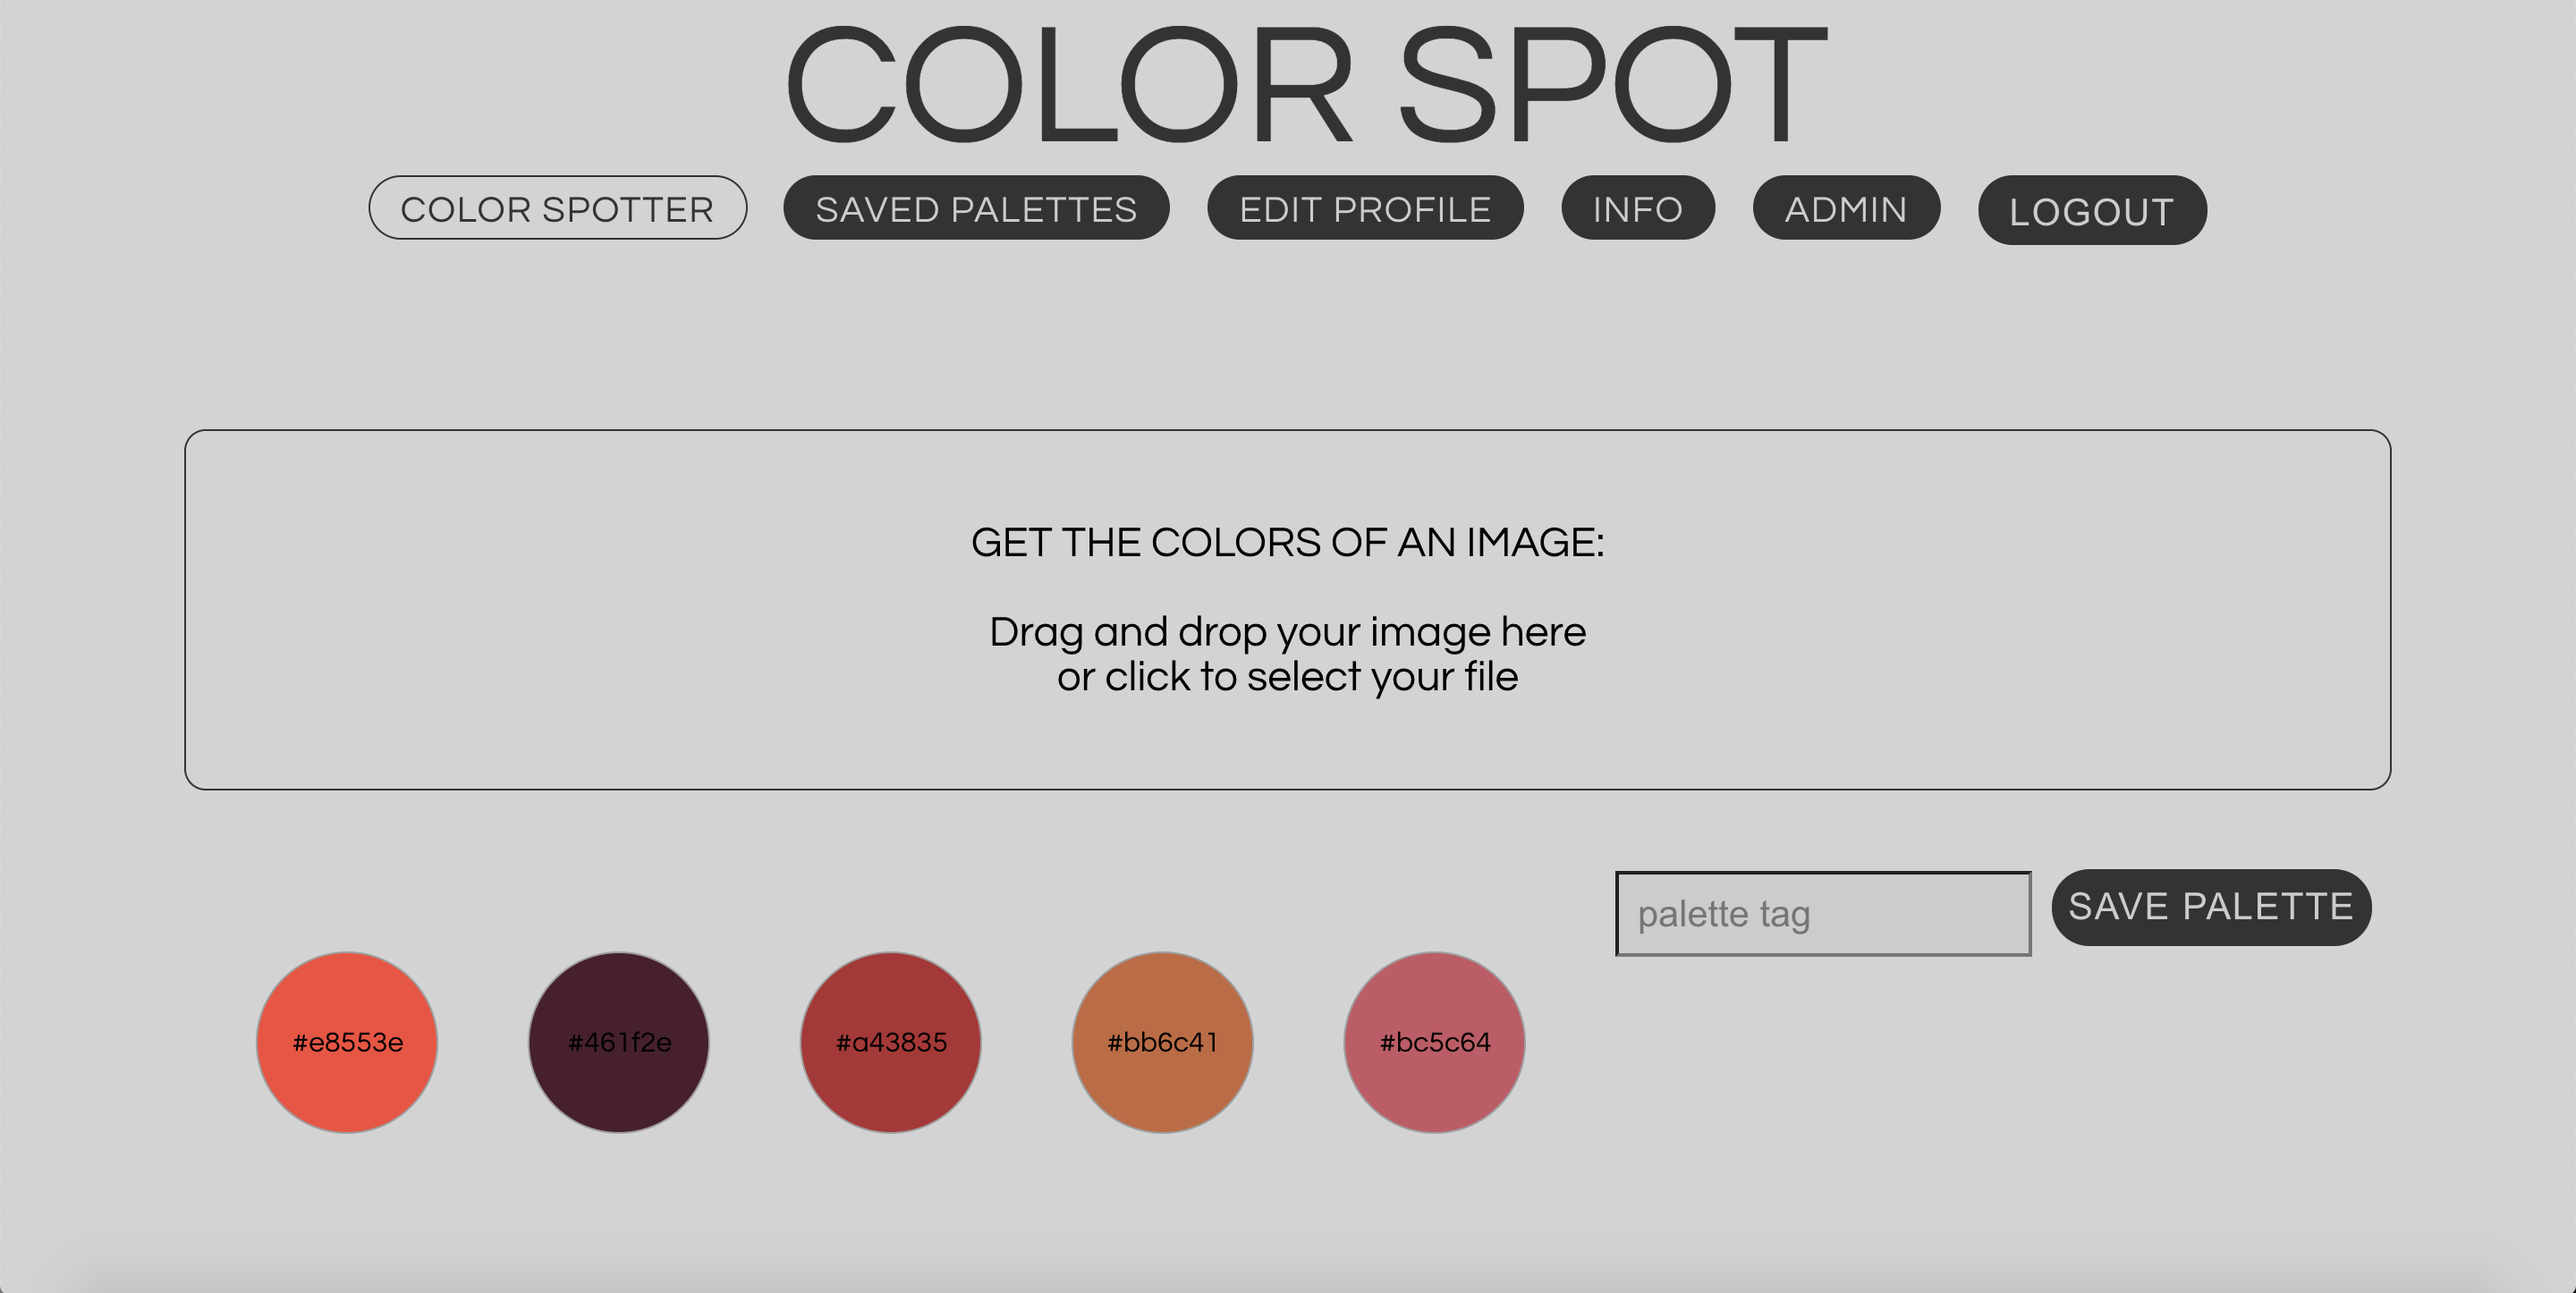
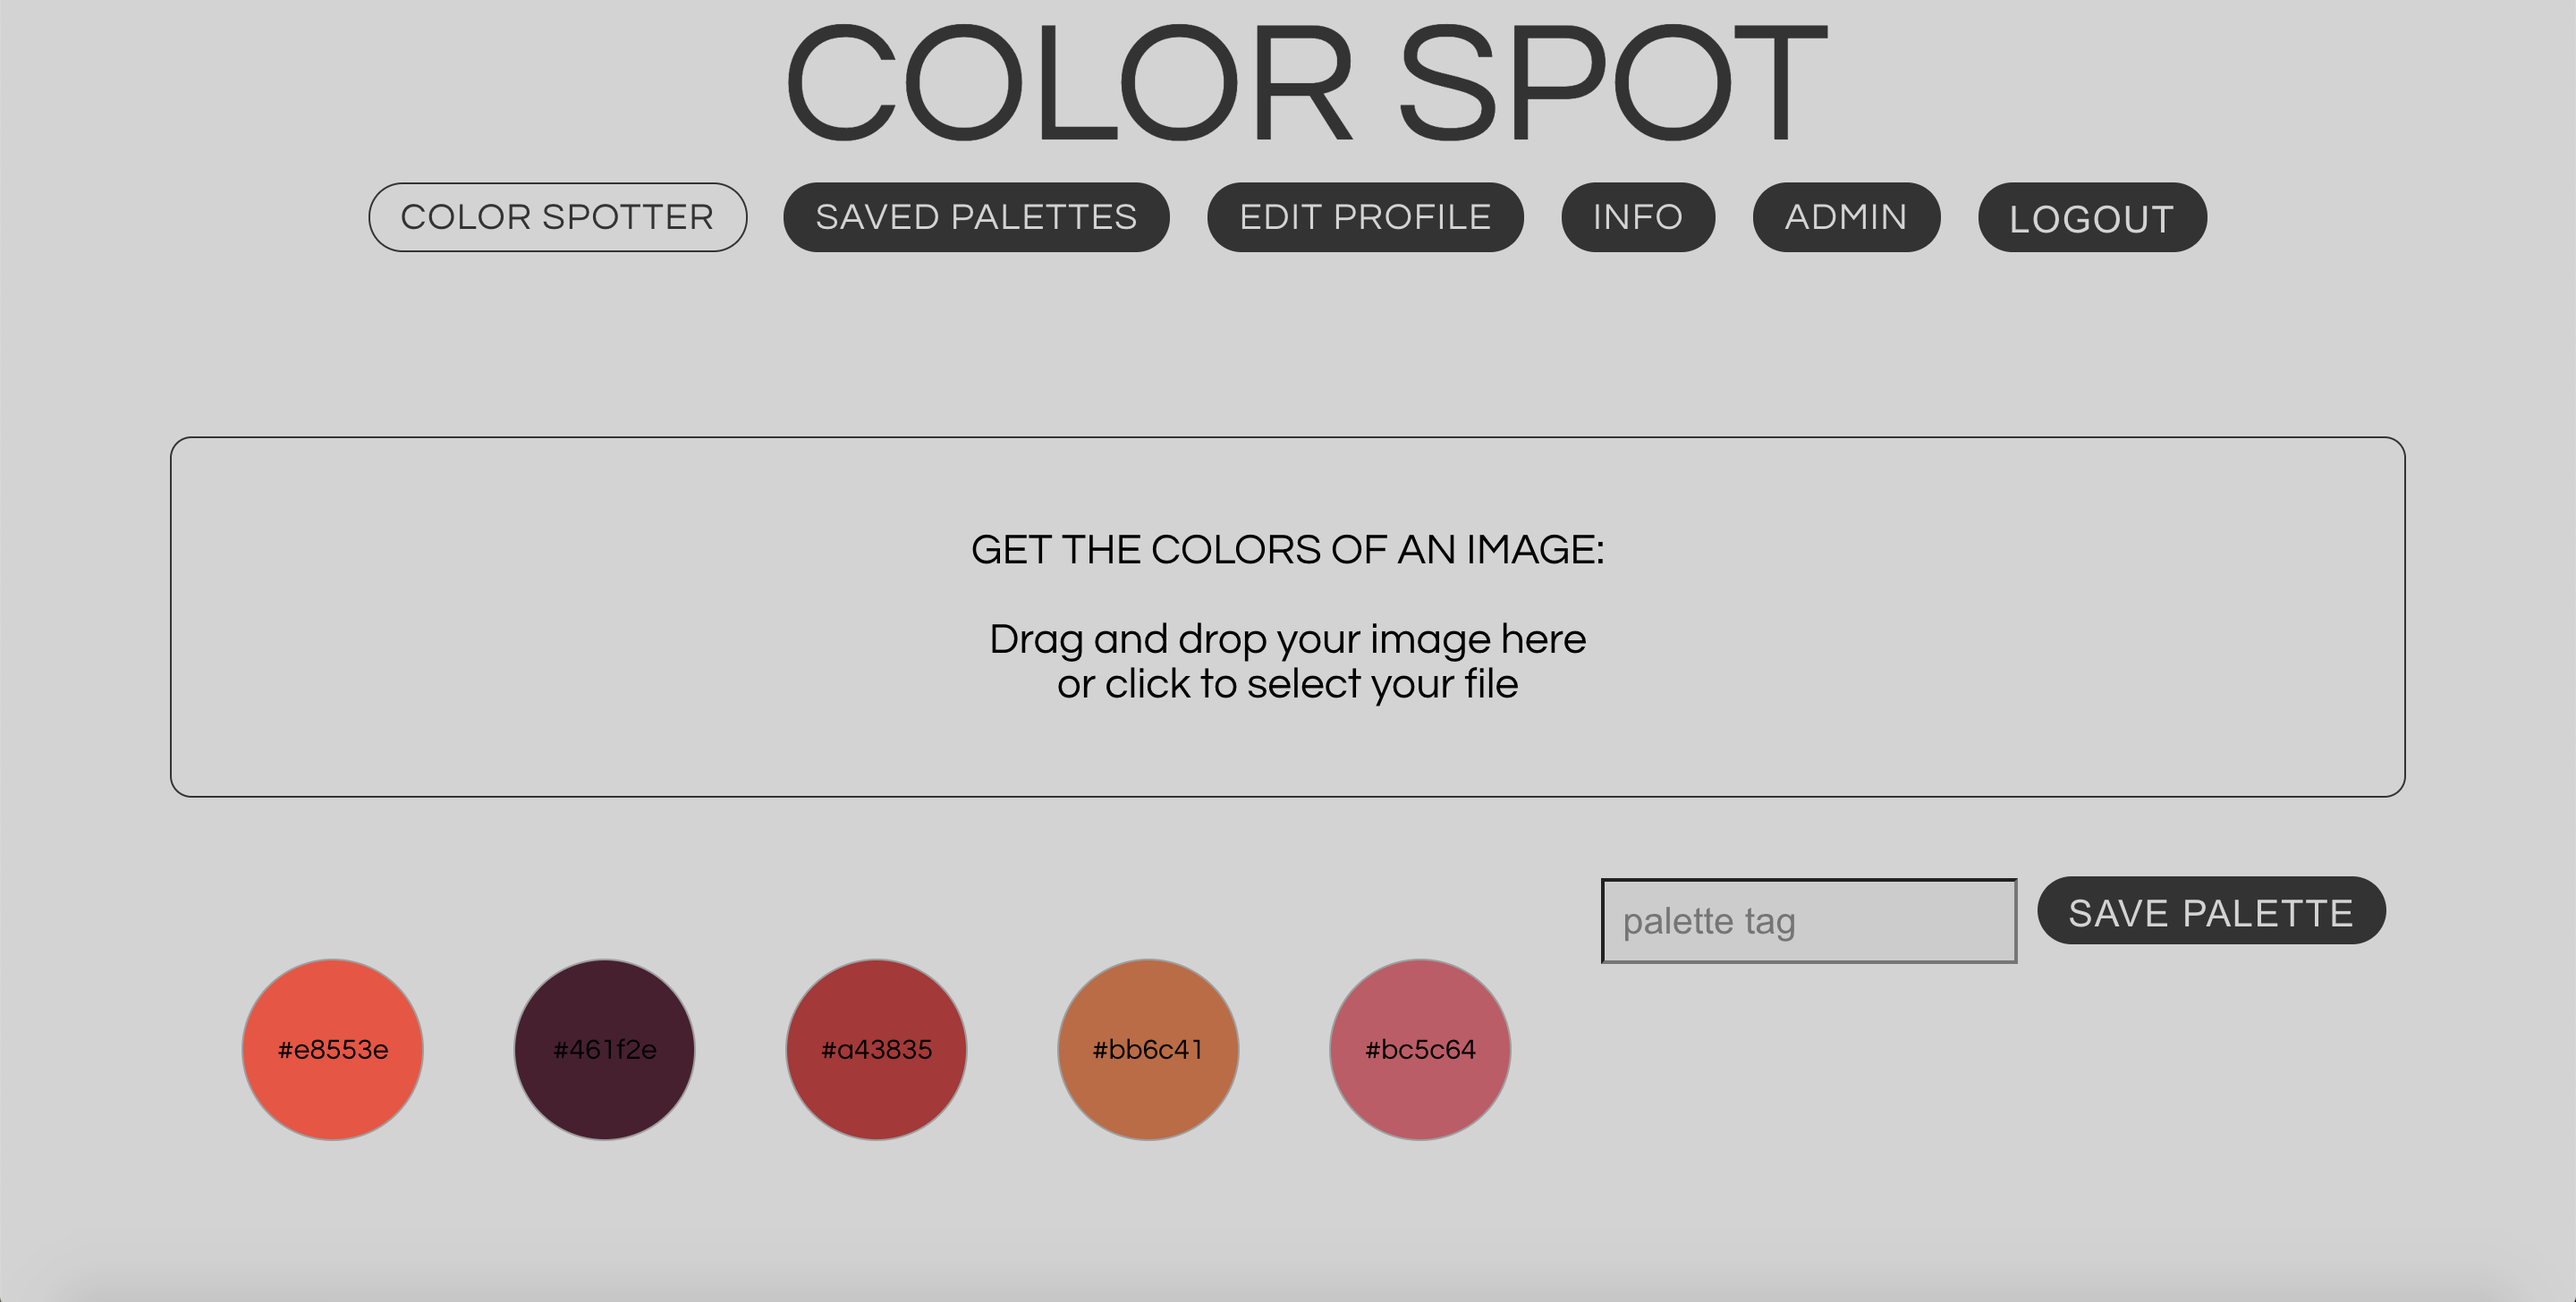
save edits

diff --git a/public/styles.css b/public/styles.css
@@ -85,7 +85,7 @@ button.nav {
     border: 1px solid transparent;
     text-transform: uppercase;
     margin: 0.2em 0.5em;
-    padding: 0.6em 0.6em 0.4em;
+    padding: 0.4em 0.8em 0.2em;
     cursor: pointer;
 }
 
@@ -182,7 +182,7 @@ button.save {
     border: 1px solid transparent;
     text-transform: uppercase;
     margin: 0.2em 0.5em;
-    padding: 0.4em 0.6em 0.4em;
+    padding: 0.4em 0.8em 0.2em;
     cursor: pointer;
 }
 

diff --git a/README.md b/README.md
@@ -43,5 +43,5 @@ API used: color-thief by Lokesh Dhakar
 ![screenshot](readMe/screenshot-2.png)
 
 <p align="center">
-<img width="400" height="576" src="readMe/mobile.png">
+<img width="400" height="565" src="readMe/mobile.png">
 </p>
